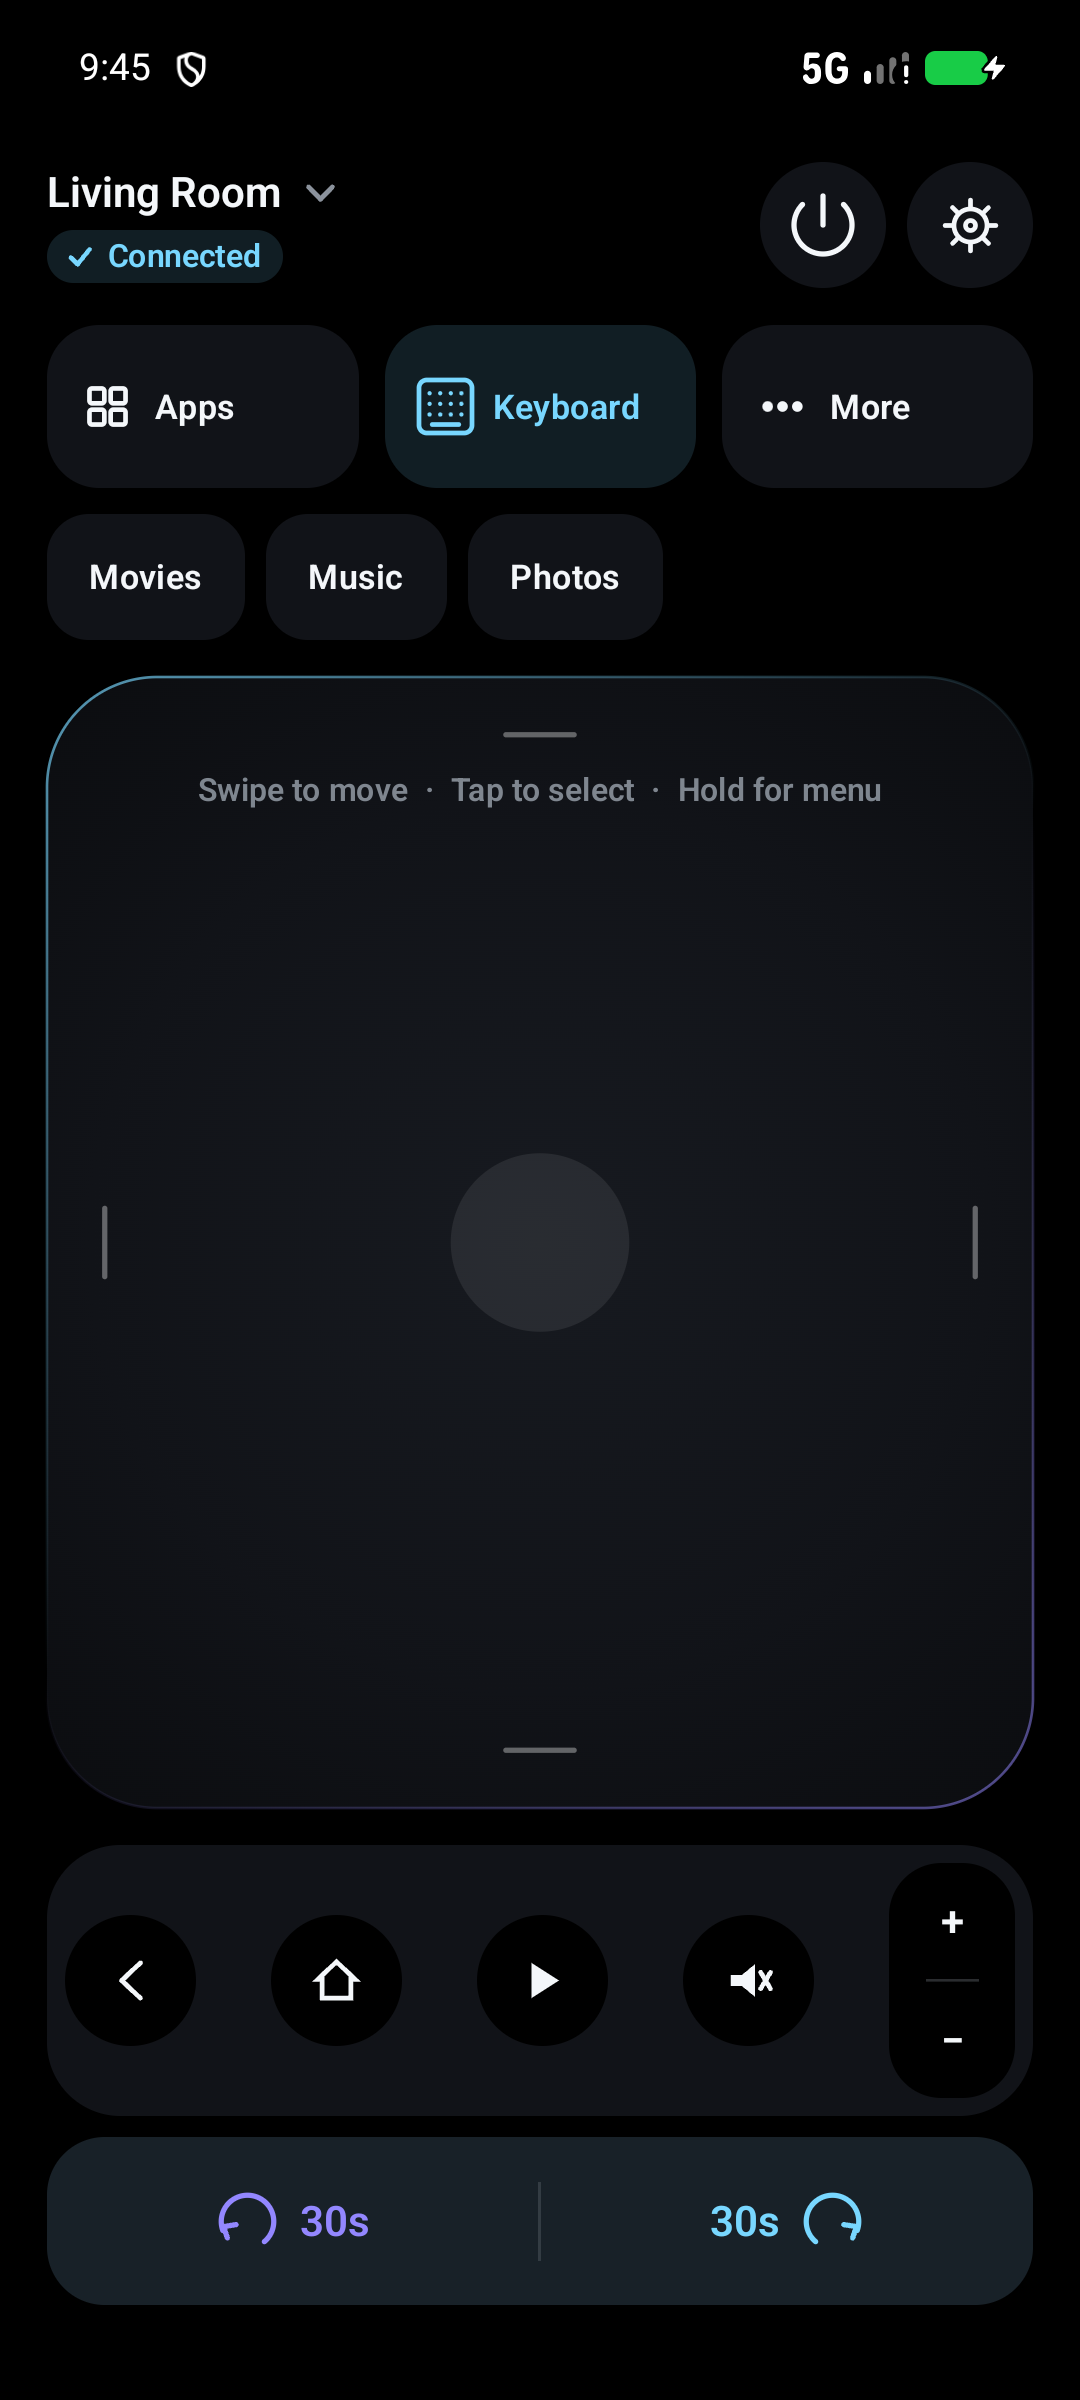
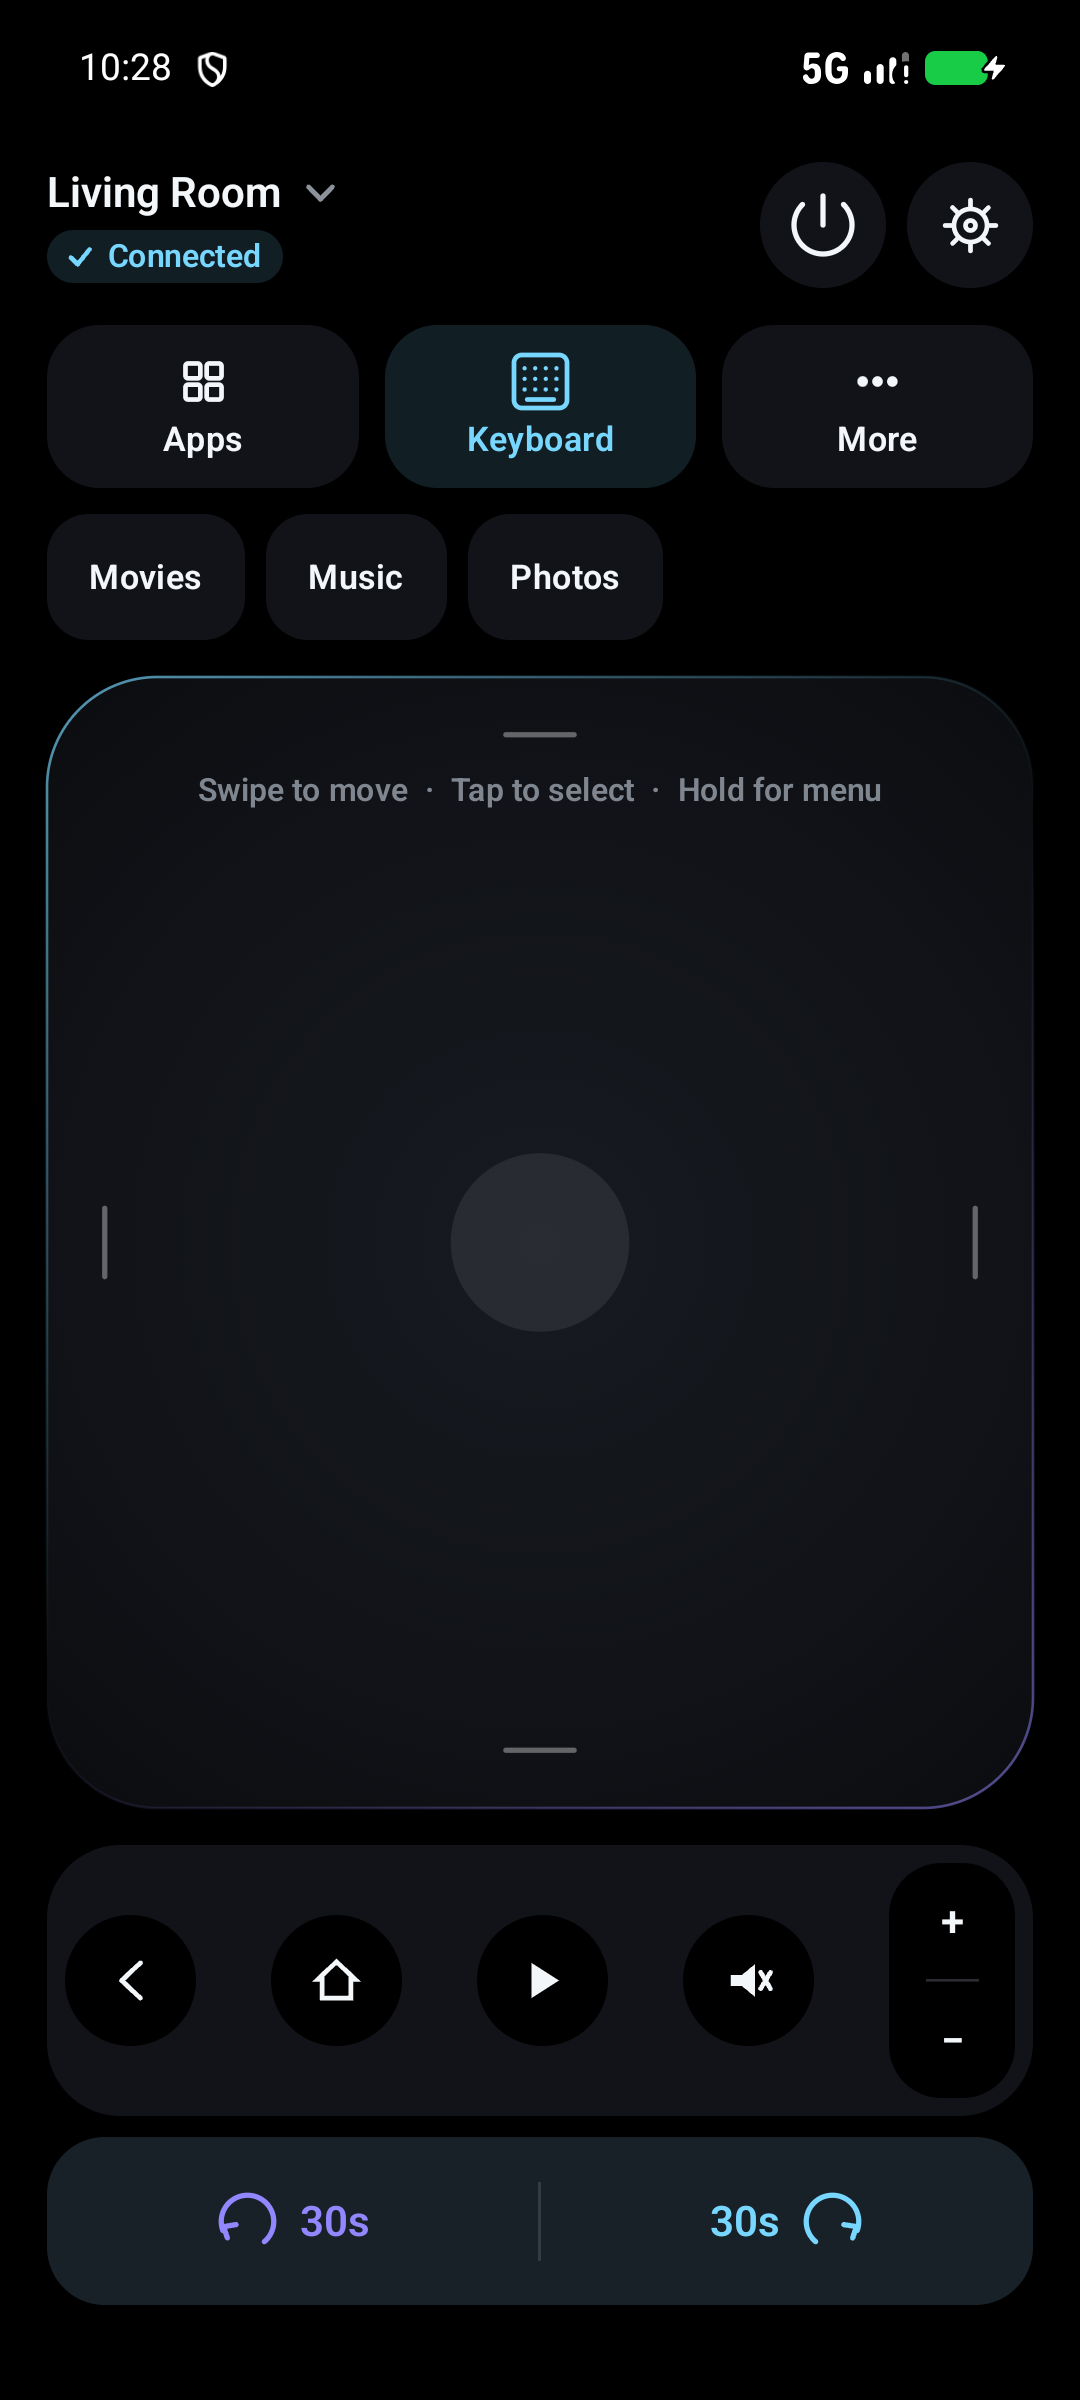
Stack quick action labels so Keyboard fits on phones
On a real 384dp-wide phone, the icon beside the label left too little room,
so "Keyboard" broke across two lines. Placing the icon above the label gives
the text the full width of the button.

diff --git a/app/src/main/kotlin/io/coreback/relayremote/remote/RemoteScreen.kt b/app/src/main/kotlin/io/coreback/relayremote/remote/RemoteScreen.kt
@@ -922,12 +922,14 @@ private fun QuickAction(
         color = if (highlighted) RelayCyan.copy(alpha = 0.14f) else RelayCarbon,
         contentColor = accent,
     ) {
-        Row(
-            Modifier.padding(horizontal = 13.dp),
-            verticalAlignment = Alignment.CenterVertically,
+        // Stacked, because a side-by-side icon leaves too little room for "Keyboard" on a phone.
+        Column(
+            Modifier.padding(horizontal = 6.dp),
+            verticalArrangement = Arrangement.Center,
+            horizontalAlignment = Alignment.CenterHorizontally,
         ) {
             RemoteIconGraphic(icon, accent, Modifier.size(20.dp))
-            Spacer(Modifier.width(8.dp))
+            Spacer(Modifier.height(4.dp))
             Text(
                 label,
                 style = MaterialTheme.typography.labelLarge,
